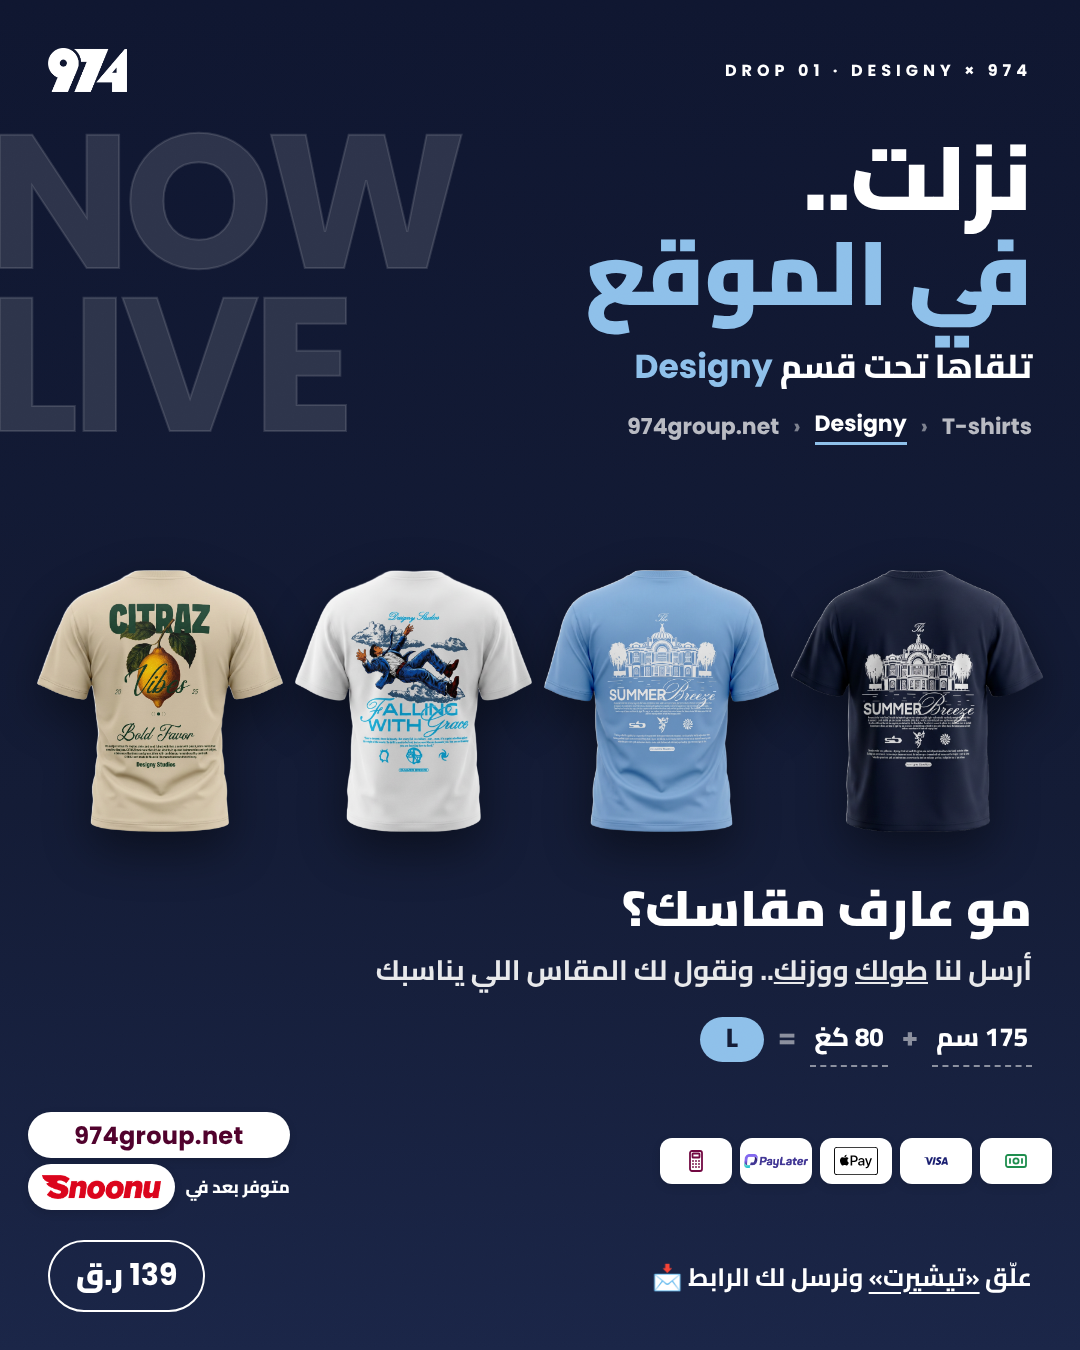
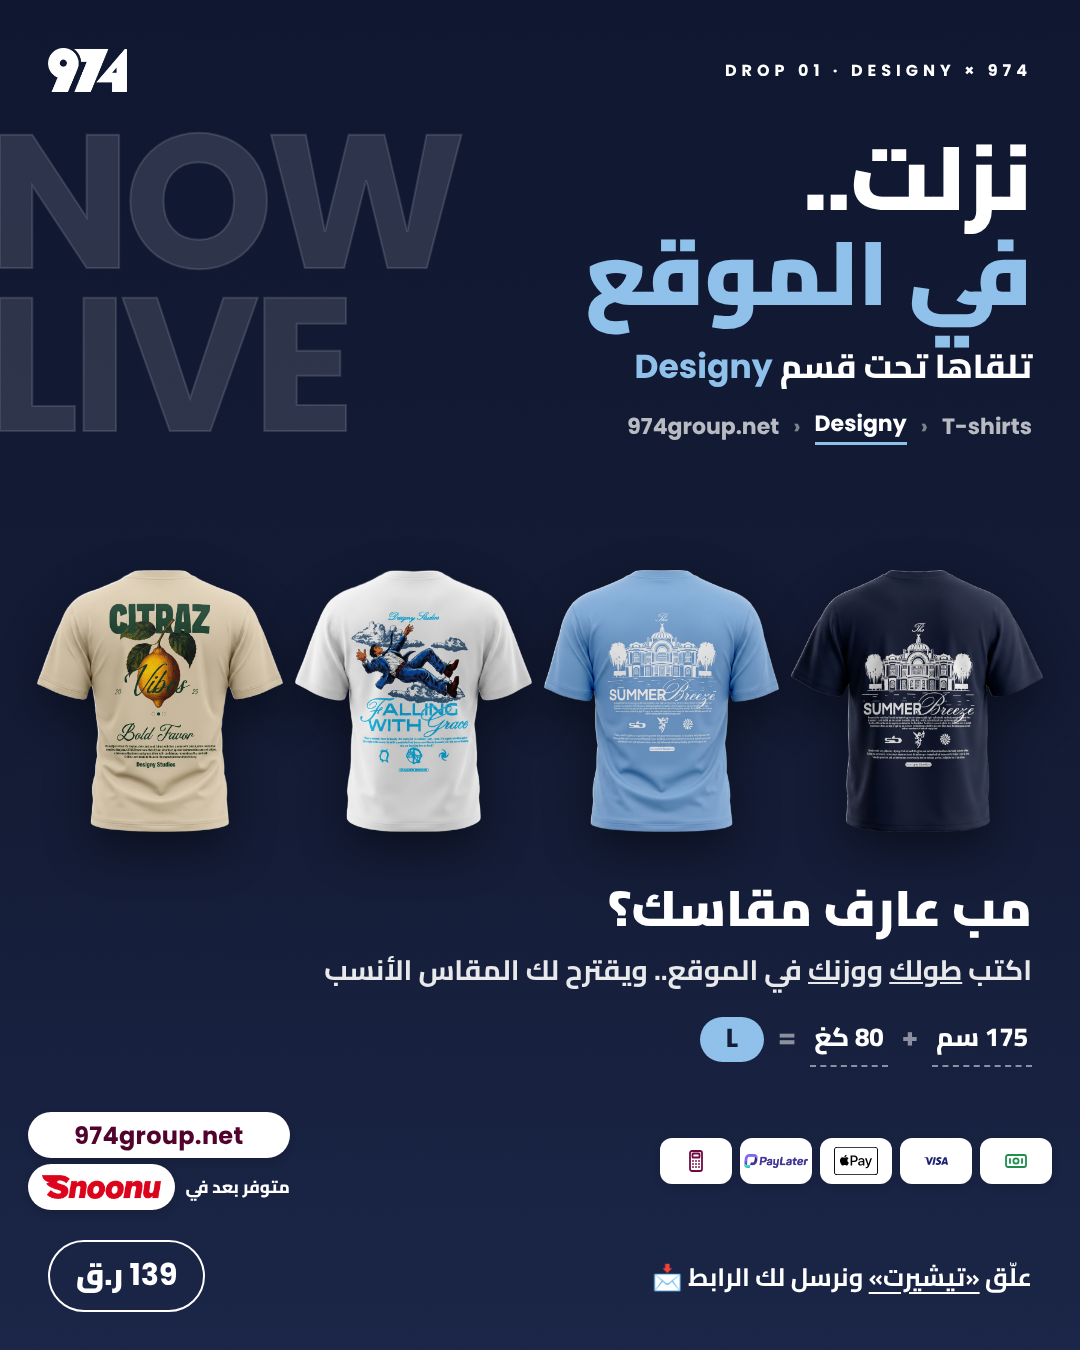
T-shirts live post: size finder on site wording
Claude-Session: https://claude.ai/code/session_01K6HDWNrArsGSJekW1VcEzV

Changed region(s): [[0.4889, 0.6533, 0.9472, 0.7467], [0.3056, 0.7156, 0.4583, 0.7467]]

diff --git a/tshirts/out2/974-drop01-live-story.html b/tshirts/out2/974-drop01-live-story.html
@@ -47,8 +47,8 @@ body{width:1080px;height:1920px;background:linear-gradient(180deg,#0F1630 0%,#13
 </div>
 <div class="abs shirts" style="left:0;right:0;top:810px"><img src="file:///home/claude/974-social/tshirts/cut/beige-back.png" style="height:256px"><img src="file:///home/claude/974-social/tshirts/cut/white-back.png" style="height:256px"><img src="file:///home/claude/974-social/tshirts/cut/blue-back.png" style="height:256px"><img src="file:///home/claude/974-social/tshirts/cut/navy-back.png" style="height:256px"></div>
 <div class="abs ar" style="right:48px;left:48px;top:1210px">
- <div style="font-weight:900;font-size:56px;line-height:1.15">مو عارف مقاسك؟</div>
- <div style="font-weight:700;font-size:31px;margin-top:6px;opacity:.9">أرسل لنا <u>طولك</u> و<u>وزنك</u>.. ونقول لك المقاس اللي يناسبك</div>
+ <div style="font-weight:900;font-size:56px;line-height:1.15">مب عارف مقاسك؟</div>
+ <div style="font-weight:700;font-size:31px;margin-top:6px;opacity:.9">اكتب <u>طولك</u> و<u>وزنك</u> في الموقع.. ويقترح لك المقاس الأنسب</div>
  <div class="calc"><span>175 سم</span><b>+</b><span>80 كغ</span><b>=</b><span class="res en">L</span></div>
 </div><div class="grain"></div>
 <div class="top"><img src="file:///home/claude/974-social/posts/2026-11/pilates-socks/src/logo-white.png"><span>DROP 01 · DESIGNY × 974</span></div>

diff --git a/tshirts/out2/974-drop01-live-post.html b/tshirts/out2/974-drop01-live-post.html
@@ -47,8 +47,8 @@ body{width:1080px;height:1350px;background:linear-gradient(180deg,#0F1630 0%,#13
 </div>
 <div class="abs shirts" style="left:0;right:0;top:570px"><img src="file:///home/claude/974-social/tshirts/cut/beige-back.png" style="height:262px"><img src="file:///home/claude/974-social/tshirts/cut/white-back.png" style="height:262px"><img src="file:///home/claude/974-social/tshirts/cut/blue-back.png" style="height:262px"><img src="file:///home/claude/974-social/tshirts/cut/navy-back.png" style="height:262px"></div>
 <div class="abs ar" style="right:48px;left:48px;top:880px">
- <div style="font-weight:900;font-size:50px;line-height:1.15">مو عارف مقاسك؟</div>
- <div style="font-weight:700;font-size:28px;margin-top:6px;opacity:.9">أرسل لنا <u>طولك</u> و<u>وزنك</u>.. ونقول لك المقاس اللي يناسبك</div>
+ <div style="font-weight:900;font-size:50px;line-height:1.15">مب عارف مقاسك؟</div>
+ <div style="font-weight:700;font-size:28px;margin-top:6px;opacity:.9">اكتب <u>طولك</u> و<u>وزنك</u> في الموقع.. ويقترح لك المقاس الأنسب</div>
  <div class="calc"><span>175 سم</span><b>+</b><span>80 كغ</span><b>=</b><span class="res en">L</span></div>
 </div><div class="grain"></div>
 <div class="top"><img src="file:///home/claude/974-social/posts/2026-11/pilates-socks/src/logo-white.png"><span>DROP 01 · DESIGNY × 974</span></div>

diff --git a/tshirts/gen3.py b/tshirts/gen3.py
@@ -17,8 +17,8 @@ def live(story=False):
 </div>
 <div class="abs shirts" style="left:0;right:0;top:{o+(660 if story else 570)}px">{shirts}</div>
 <div class="abs ar" style="right:48px;left:48px;top:{o+(1060 if story else 880)}px">
- <div style="font-weight:900;font-size:{56 if story else 50}px;line-height:1.15">مو عارف مقاسك؟</div>
- <div style="font-weight:700;font-size:{31 if story else 28}px;margin-top:6px;opacity:.9">أرسل لنا <u>طولك</u> و<u>وزنك</u>.. ونقول لك المقاس اللي يناسبك</div>
+ <div style="font-weight:900;font-size:{56 if story else 50}px;line-height:1.15">مب عارف مقاسك؟</div>
+ <div style="font-weight:700;font-size:{31 if story else 28}px;margin-top:6px;opacity:.9">اكتب <u>طولك</u> و<u>وزنك</u> في الموقع.. ويقترح لك المقاس الأنسب</div>
  <div class="calc"><span>175 سم</span><b>+</b><span>80 كغ</span><b>=</b><span class="res en">L</span></div>
 </div>'''
     extra=f'''.path{{display:flex;gap:14px;align-items:center;direction:ltr;justify-content:flex-end;font-weight:700;font-size:{30 if story else 27}px}}
